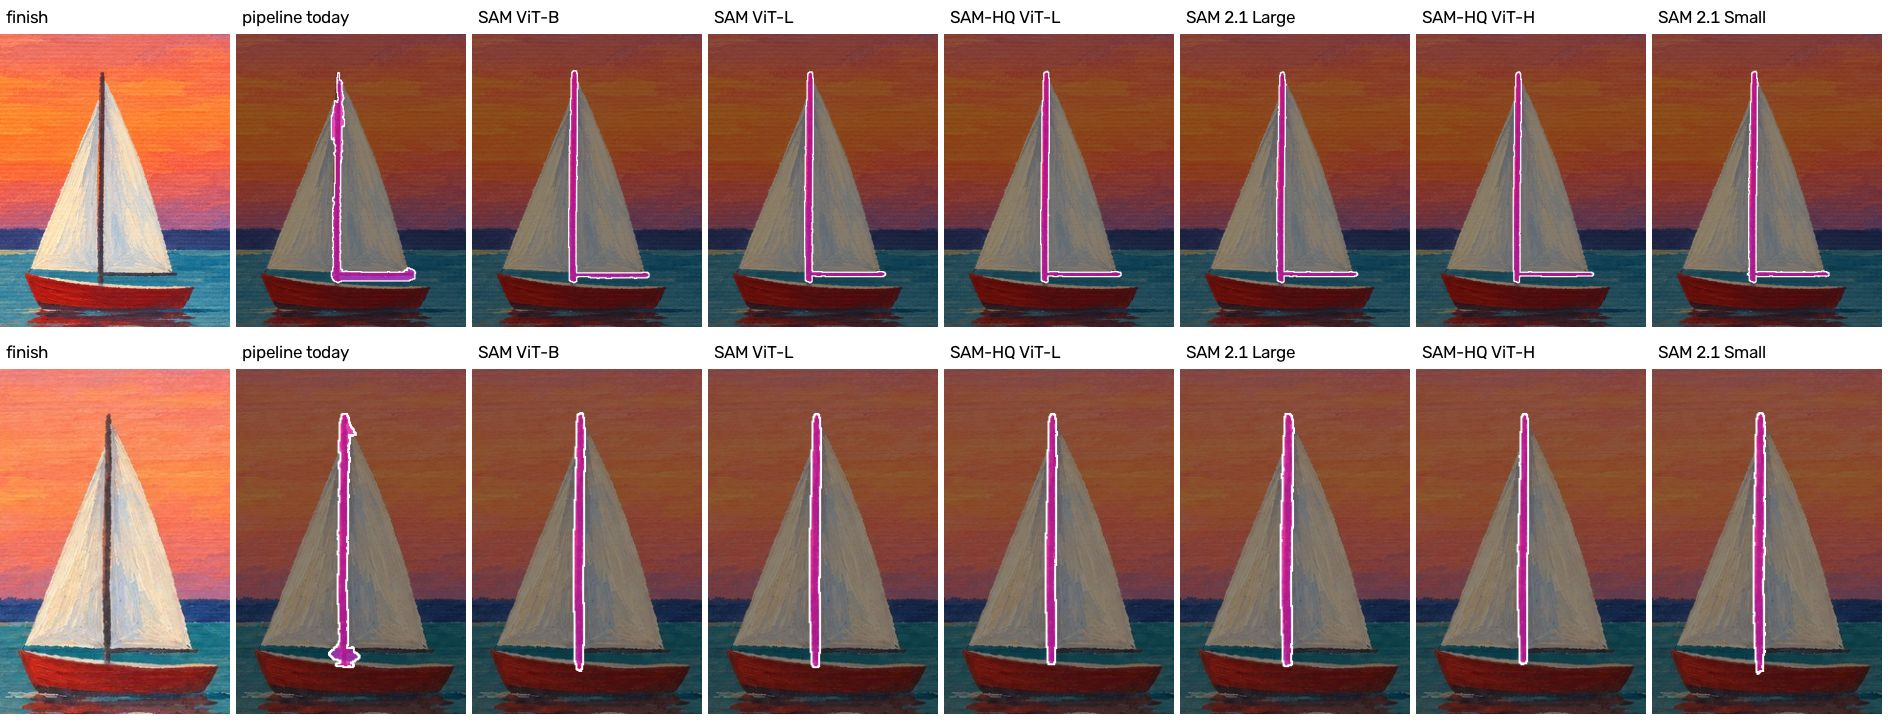
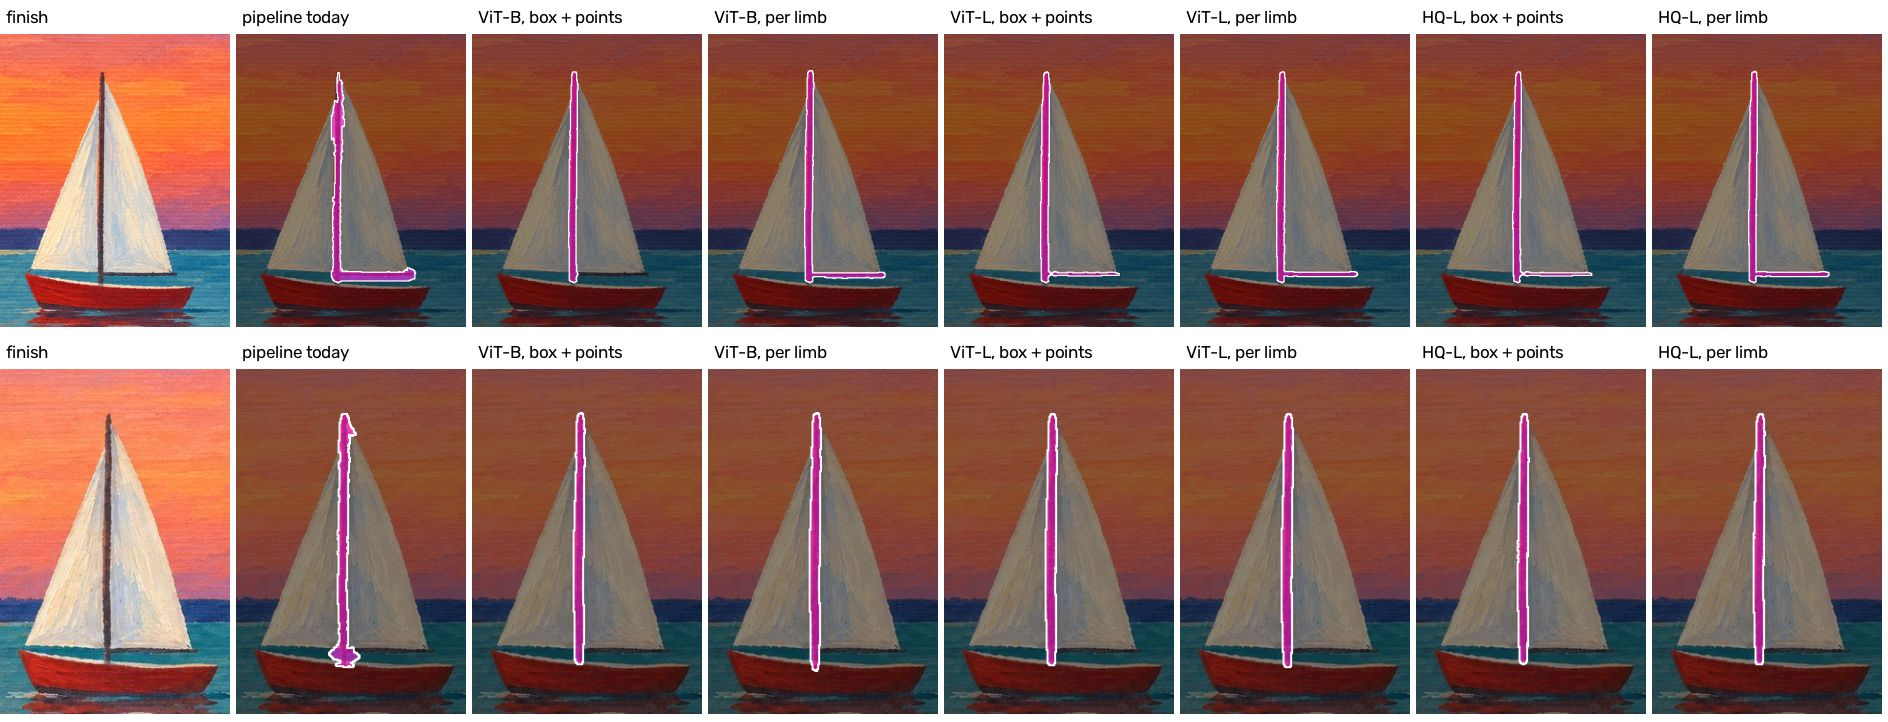
Spike #85: answer the review (one box + points beats per limb on the branch; trunks don't improve)
The reviewer found the box-plus-points prompt gives a cleaner branch than per limb, with no left-edge blob,
and that the larger models drop a trunk on the gate run that today's finds. Both are right. The pictures now
show both prompts, the trunks stay on the color rule, and the hosted and same-result claims say what was measured.

Claude-Session: https://claude.ai/code/session_017xvRi3b5oo7VFd12D7CGUX

diff --git a/spike/experiments/issue85.py b/spike/experiments/issue85.py
@@ -410,19 +410,23 @@ def stack(images: list[np.ndarray], out: str) -> None:
     save(np.vstack([np.pad(i, ((0, 8), (0, w - i.shape[1]), (0, 0)), constant_values=255) for i in images]), out)
 
 
-THIN = "per-limb@band"  # the prompt that worked for a thin part: one box and the points along it per limb
+# The two prompts that worked for a thin part, both kept inside its band:
+ONE = "box+points@band"  # one box around all its paths, with the plan's points_in and points_out
+THIN = "per-limb@band"  # per limb: a box around that path and points along it
 
 
 def sheets() -> None:
     """The pictures docs/spikes/outline-models.md shows. Top row of each: the gate run; bottom: the fixture."""
     names = [("SAM ViT-B (today's model)", "sam-b"), ("SAM ViT-L", "sam-l"), ("SAM-HQ ViT-L", "hq-l"),
              ("SAM 2.1 Large", "sam2.1-l")]
-    branch = [("the pipeline today (color rule)", "pipeline"), ("ViT-B, one box (the 2026-11-12 probe)", "sam-b__box")] \
-        + [(f"{n}, per limb", f"{m}__{THIN}") for n, m in names]
-    stack([sheet(pic, "branch", branch, None, 3, 520) for pic in ("chickadee-gate", "chickadee-fixture")],
+    three = names[:3]
+    both = [(f"{n.split(' (')[0]}, {text}", f"{m}__{rec}") for n, m in three
+            for text, rec in (("one box + points", ONE), ("per limb", THIN))]
+    branch = [("the pipeline today (color rule)", "pipeline"), ("ViT-B, one box, no points (the probe)", "sam-b__box")] + both
+    stack([sheet(pic, "branch", branch, None, 4, 420) for pic in ("chickadee-gate", "chickadee-fixture")],
           "outline-models-branch.jpg")
-    mast = [("finish", "finish"), ("pipeline today", "pipeline")] + [(n.split(" (")[0], f"{m}__{THIN}") for n, m in names] \
-        + [("SAM-HQ ViT-H", f"hq-h__{THIN}"), ("SAM 2.1 Small", f"sam2.1-s__{THIN}")]
+    mast = [("finish", "finish"), ("pipeline today", "pipeline")] \
+        + [(t.replace("SAM-HQ ViT-L", "HQ-L").replace("SAM ", "").replace("one box + points", "box + points"), f) for t, f in both]
     stack([sheet("sailboat-gate", "mast", mast, [0.66, 0.2, 0.9, 0.66], 8, 230),
            sheet("sailboat-fixture", "mast", mast, [0.7, 0.2, 0.94, 0.66], 8, 230)], "outline-models-mast.jpg")
     trunks = [("finish", "finish"), ("pipeline today", "pipeline")] \
@@ -447,11 +451,13 @@ def sheets() -> None:
     save(np.hstack([np.pad(t, ((0, h - t.shape[0]), (0, 0), (0, 0)), constant_values=255) for t in tiles]),
          "outline-models-matte.jpg")
     steps = []
-    for text, model in [("step 5 today", None)] + [(f"step 5, branch and feet from {n}", m) for n, m in names[:3]]:
-        swaps = {"branch": f"{model}__{THIN}", "bird-feet": f"{model}__box"} if model else {}
+    for text, model, rec in [("step 5 today", None, None)] + [(f"{n.split(' (')[0]}, {t}", m, r) for n, m in three
+                                                              for t, r in (("one box + points", ONE), ("per limb", THIN))]:
+        swaps = {"branch": f"{model}__{rec}", "bird-feet": f"{model}__box"} if model else {}
         pic = rebuilt_step("chickadee-gate", swaps, "branch-dark")
-        steps.append(label(cv2.resize(pic, (768, 512), interpolation=cv2.INTER_AREA), text))
-    save(np.vstack([np.hstack(steps[:2]), np.hstack(steps[2:])]), "outline-models-step5.jpg")
+        steps.append(label(cv2.resize(pic, (600, 400), interpolation=cv2.INTER_AREA), text))
+    steps.insert(1, np.full_like(steps[0], 255))
+    save(np.vstack([np.hstack(steps[i:i + 2]) for i in range(0, 8, 2)]), "outline-models-step5.jpg")
 
 
 def rebuilt_step(pic: str, swaps: dict[str, str], step_id: str) -> np.ndarray:

diff --git a/docs/spikes/outline-models.md b/docs/spikes/outline-models.md
@@ -3,17 +3,18 @@
 2026-11-14. Follows `outline-probe.md` and `outlines.md`. The code is `spike/experiments/issue85.py`; nothing in
 the pipeline changed.
 
-**Answer: swap the local model for a larger one, and ask it for thin parts the right way. Don't add a hosted
-model.** The chickadee's branch, the worst outline on the site, comes out clean and in one piece from a larger
-local Segment Anything (SAM ViT-L or SAM-HQ ViT-L, about 340 MB, 4 seconds more per picture, free). Half of the gain
-is not the model at all: the pipeline never asks the model for a thin part, because the probe of 2026-11-12 asked
-with one box around the whole branch and got the background back. Asked limb by limb, with the points the plan
-already has, even today's model outlines the mast and the feet better than the color rule does.
+**Answer: swap the local model for SAM-HQ ViT-L, and ask it for thin parts with a box and the plan's points. No
+hosted model looks needed, though none was run.** The chickadee's branch, the worst outline on the site, comes out
+clean and in one piece, twigs included (345 MB, 4 seconds more per picture, free). Much of the gain is not the
+model at all: the pipeline never asks the model for a thin part, because the probe of 2026-11-12 asked with one
+box and no points and got the background back. Given the points the plan already has, even today's ViT-B returns a
+far better branch than the color rule, and it outlines the mast and the feet better too.
 
 Step 5 of the chickadee gate run ("Paint the branch and trunk dark"), built by the real tools with only the
-branch's and the feet's outlines swapped:
+branch's and the feet's outlines swapped. Left: one box around the whole branch plus the plan's points. Right: one
+prompt per limb.
 
-![Step 5 today, and with the branch outlined by ViT-B, ViT-L and SAM-HQ ViT-L](outline-models-step5.jpg)
+![Step 5 today, and with the branch outlined by ViT-B, ViT-L and SAM-HQ ViT-L, each asked two ways](outline-models-step5.jpg)
 
 ## What was run
 
@@ -35,16 +36,19 @@ they are: nothing was hand-tuned for a model.
 | SAM 2.1 Large | 910 MB | 5.9 s | 0.03 s | yes |
 | BiRefNet, small (a matting model, no prompts) | 224 MB | 7.1 s per part | | not checked |
 
-Times are on 4 CPU cores, the median over the six pictures. All of it is free. The files come from GitHub
-releases: today's model from rembg's, the others from X-AnyLabeling's exports (`CANDIDATES` in the script has
-every address). A lesson runs `outline` up to three times, so ViT-L or SAM-HQ ViT-L adds about 12 seconds to a
-run of 16 to 20 minutes.
+Times are on 4 CPU cores, the median over the six pictures. All of it is free. Loading a model takes 0.6 to 2.8
+seconds more, once per run of the tool. "Same result twice" is the same prompt asked twice of one picture; the
+part that reads the picture was run twice only for ViT-L and SAM-HQ ViT-L, and gave the same numbers both times.
+The files come from GitHub releases: today's model from rembg's, the others from X-AnyLabeling's exports
+(`CANDIDATES` in the script has every address). A lesson runs `outline` up to three times, so ViT-L or SAM-HQ
+ViT-L adds about 12 seconds to a run of 16 to 20 minutes.
 
 Each part was asked for in up to five ways (`recipes` in the script): one box; the box with the plan's
-`points_in` and `points_out`; the points alone; points along a thin part's `paths`; and **per limb**: for each of
-a thin part's paths, a box around that path, points along it, and the `points_out` that fall inside the box, with
-the limbs' outlines joined, kept inside the band the pipeline already draws around the paths, and pieces under
-0.05% of the picture dropped.
+`points_in` and `points_out` (**one box + points**); the points alone; points along a thin part's `paths`; and
+**per limb**: for each of a thin part's paths, a box around that path, points along it, and the `points_out` that
+fall inside the box, with the limbs' outlines joined. For a thin part the box is the bounds of its paths, and the
+result is kept inside the band the pipeline already draws around the paths, with pieces under 0.05% of the picture
+dropped. Piece counts below are after that clipping (`load` in the script); `results.json` holds the unclipped ones.
 
 There is no hand-drawn outline to score against, so "clean" is by eye, from the pictures below. The script also
 counts pieces and overlap with today's outlines (`output/spike85/results.json`); those numbers only back up what
@@ -52,27 +56,34 @@ the pictures show.
 
 ## What it showed
 
-**The branch.** Top six: the gate run. Bottom six: the fixture.
+**The branch.** Top eight: the gate run. Bottom eight: the fixture.
 
-![The branch, six ways, on both chickadee pictures](outline-models-branch.jpg)
+![The branch, eight ways, on both chickadee pictures](outline-models-branch.jpg)
 
 - Today (the color rule): on the gate run, seven pieces, with misty background stuck along the top and the right
   twigs. This is #100's fault. The fixture's branch was tuned by hand over three rounds and is fair.
-- One box around the whole branch, the probe's way: SAM and SAM 2.1 return most of the picture at nearly every
-  size (63 to 87% of it; the branch is 13%). SAM-HQ returns the branch with background attached, in 3 to 15
-  pieces. This is what "the model fails on thin parts" was based on.
-- Per limb: ViT-L and SAM-HQ ViT-L return one clean piece on both pictures, twigs and leaf stems included, with
-  the feet left out. ViT-B is as clean on the fixture but takes other blobs on the gate run (nine pieces). SAM 2.1
-  Large is close to ViT-L; SAM 2.1 Base+ breaks up (15 and 12 pieces); SAM 2.1 Small is fair.
-- One fault is left with every model: on the gate run a leaf cut off by the left edge is taken with the branch.
-  It sits inside the branch's band and the plan's leaf boxes don't cover it.
+- One box and no points, the probe's way: SAM and SAM 2.1 return most of the picture at nearly every size (63 to
+  87% of it; the branch is 13%). SAM-HQ returns the branch with background attached, in 3 to 15 pieces. This is
+  what "the model fails on thin parts" was based on.
+- One box + points: SAM-HQ ViT-L returns one clean piece on both pictures with every twig on the gate run. It is
+  the cleanest branch in the run. Its faults are small: a sliver at one foot, and one thin twig missed on the
+  fixture. ViT-L is as clean but drops the long right twig on both pictures. ViT-B gives three pieces on the gate
+  run: no blobs above the branch, a patch of foliage at the left edge, and no right twig.
+- Per limb: ViT-L and SAM-HQ ViT-L keep every twig and leaf stem, but on the gate run both take a wedge of
+  orange foliage at the left edge, where three of the plan's paths run close together (it's the dark block at the
+  bottom left of step 5 above). ViT-B per limb is clean on the fixture and the worst of all on the gate run (nine
+  pieces).
+- So for a branch, one box + points is the better prompt, and SAM-HQ is the model that keeps the twigs with it.
 
-**The mast.** Top: the gate run (a mast and a boom). Bottom: the fixture.
+**The mast.** Top: the gate run (a mast and a boom). Bottom: the fixture (a mast).
 
-![The mast, eight ways, on both sailboats](outline-models-mast.jpg)
+![The mast, six ways, on both sailboats](outline-models-mast.jpg)
 
-Every model, today's included, returns a straight mast of even width. The color rule's mast is ragged, with a
-lump at the foot and a boom twice too thick.
+Every model returns a straight mast of even width; the color rule's is ragged, with a lump at the foot and a boom
+twice too thick. The boom is where the prompts differ: with one box + points ViT-B drops it and the two larger
+models draw it too thin, while per limb every model, today's included, gets mast and boom right. So a mast with a
+boom wants the per-limb prompt, and a branch wants the single box. Which to use when isn't settled by two scenes:
+the build issue has to try both, or join them.
 
 **The feet.** Top: the gate run. Bottom: the fixture.
 
@@ -86,9 +97,11 @@ the pipeline as it is.
 
 ![The trunks, eight ways](outline-models-trunks.jpg)
 
-The larger models give smooth-sided trunks where the color rule gives ragged ones and, on the fixture, takes haze
-between the trunks. SAM-HQ ViT-L and ViT-H are the cleanest; ViT-B and SAM 2.1 Large are speckled. No model finds
-the faintest trunk on the left. This is an improvement, not a fix.
+Mixed, and not a reason to swap. The larger models give smoother-sided trunks, and on the fixture they leave out
+haze the color rule takes between the trunks. But on the gate run ViT-L, SAM-HQ ViT-L and SAM-HQ ViT-H all drop
+the short trunk on the left, which the color rule and today's ViT-B both find, and SAM-HQ ViT-L takes slivers
+along the twigs that cross the trunks. SAM 2.1 Large fails outright there (44% of the picture in 37 pieces). The
+trunks stay on the color rule.
 
 **Paint with no single edge** (clouds, a reflection): the models return one solid shape where the color rule
 returns the marks themselves. Neither is wrong; the marks are what the steps paint, so these stay on the color
@@ -104,6 +117,12 @@ the bird when the branch was wanted, the branch when the trunks were, the sail f
 in their crop, came back right. Its edges are soft, and that didn't help: a painted edge is hard, and every pixel
 has one owner in `parts/owner.png`. A soft edge would mean blending two parts' paint in `build-steps`, for no
 visible gain on these pictures. (The full-size BiRefNet, 973 MB, ran out of memory on this machine.)
+
+![BiRefNet, asked for four parts](outline-models-matte.jpg)
+
+**SAM 2.1 may be better than it looked here.** Its middle size did worse than its small one and its confidence
+numbers ran from 0.0 to 0.9 on good outlines, which can be the export or this script's handling of it as much as
+the model. The recommendation doesn't rest on it.
 
 ## Hosted models: looked up, not run
 
@@ -133,30 +152,34 @@ Not reachable from here, so not tried locally either: SAM 3 as ONNX (about 3.6 G
 
 Checked against `docs/decisions.md`: tools over inference (a free local tool), cost never at the expense of
 quality (it costs nothing and looks better), the outline model runs only where a lesson is made (still true), and
-every tool gives the same output for the same input (true of all nine models).
+every tool gives the same output for the same input (the two recommended models repeated exactly; see the table).
 
-1. **Swap the local model for SAM-HQ ViT-L.** 345 MB once, 4 seconds more per picture, no cost. SAM ViT-L is as
-   good on the branch and the mast; SAM-HQ ViT-L is cleaner on the trunks and has the published thin-object
-   results. They're close enough that the build issue should run both on its first real lessons and keep the one
-   that does better. ViT-H costs 6 more seconds a picture for nothing that showed. SAM 2.1 is faster but its
-   middle size breaks up and its confidence numbers are no use (0.0 to 0.9 on good outlines), which the outline
-   checks rely on.
-2. **Ask the model for thin parts, per limb**, as above, and keep the color rule as the fallback for a thin part
-   the model returns nothing for. This needs the paths and points a plan already has.
-3. **Small things with an edge are `object` parts, not `marks`**: the feet, and trunks with a box and points.
-   That's a change to the skill's guidance, not to the tools.
-4. **Clouds, sun paths, reflections, foliage stay on the color rule.**
-5. **No hosted model.** The local swap fixes the fault, costs nothing, and repeats exactly.
+1. **Swap the local model for SAM-HQ ViT-L.** 345 MB once, 4 seconds more per picture, no cost. It's the only
+   model that returned the whole branch, twigs included, from the simple prompt, and SAM-HQ is the one with
+   published thin-object results. SAM ViT-L is the runner-up. ViT-H costs 6 more seconds a picture for nothing
+   that showed.
+2. **Ask the model for thin parts**, inside the band the pipeline already draws: one box around the part's paths
+   with the plan's points for a branch; per limb where that misses a limb (the boom). The build issue settles the
+   rule on more pictures. Keep the color rule as the fallback when the model returns nothing.
+3. **This prompt change alone, with today's ViT-B, is already a clear gain** if the swap is ever unwanted: three
+   pieces and no blobs above the branch, against seven with blobs.
+4. **A small thing with a clear edge is an `object`, not `marks`**: the feet. That's a change to the skill's
+   guidance, not to the tools.
+5. **Misty trunks, clouds, sun paths, reflections, foliage stay on the color rule.**
+6. **No hosted model, on what's known.** The local swap fixes the fault, costs nothing, and repeats exactly. This
+   rests on the lookup above, not on a trial: whether a hosted model repeats run to run, and how long it takes,
+   weren't measured.
 
 For #100: its option 2 (a better outline model) fixes its step 5, so the image-model edit and the re-render
 aren't needed for this case.
 
 ## What isn't known
 
-- Two scenes have a thin part (one branch, one mast, each in two renders). The per-limb prompt is tuned on those.
-- The plans' paths and points were written for the color rule. Whether a hands-off run writes paths good enough
+- Two scenes have a thin part (one branch, one mast, each in two renders). Which prompt suits which thin part is
+  drawn from those.
+- The plans' paths and points were written for the color rule. Whether a hands-off run writes points good enough
   for the model in two rounds is for the build issue's first real runs to show.
-- The left-edge leaf on the gate run, and the faintest trunk, are still wrong with every model.
+- On the gate run the recommended model loses the short left trunk if the trunks are ever moved to it.
 - The ONNX files are other people's exports of the published weights. The build issue pins each by SHA-256, as
   today's are.
 - Hosted prices and behavior are from search results, not from running anything.

diff --git a/docs/design/pipeline-v2.md b/docs/design/pipeline-v2.md
@@ -262,10 +262,11 @@ more pass. Record it in `notes.json` under `merged_parts` with the reason. A pas
 way to teach it; a wrong outline is not. Don't render a step to get around it.
 
 **Found 2026-11-14 (spike for #85, `docs/spikes/outline-models.md`), not built yet:** "the model fails on thin
-parts" came from asking it with one box around the whole branch. Asked limb by limb (a box and points along each
-path, kept inside the band), a larger local model (SAM ViT-L or SAM-HQ ViT-L, about 340 MB, 4 seconds more a
-picture) returns the chickadee's branch clean and in one piece, and even ViT-B does the mast; the feet come back
-clean from one box as an `object`. Until the build issue lands, the table above is still what the tool does.
+parts" came from asking it with one box and no points. Given a box around the part's paths and the plan's own
+points, kept inside the band, SAM-HQ ViT-L (345 MB, 4 seconds more a picture) returns the chickadee's branch clean
+and in one piece with its twigs, and even ViT-B returns a far better branch than the color rule. A mast with a
+boom came out best asked limb by limb, and the feet come back clean from one box as an `object`. Misty trunks did
+not improve. Until the build issue (#129) lands, the table above is still what the tool does.
 
 The model: Segment Anything ViT-B, quantized ONNX, 108 MB, downloaded once to `models/` (git-ignored) with its
 SHA-256 checked. `onnxruntime`, no PyTorch. About 10 seconds a picture on 4 cores.
